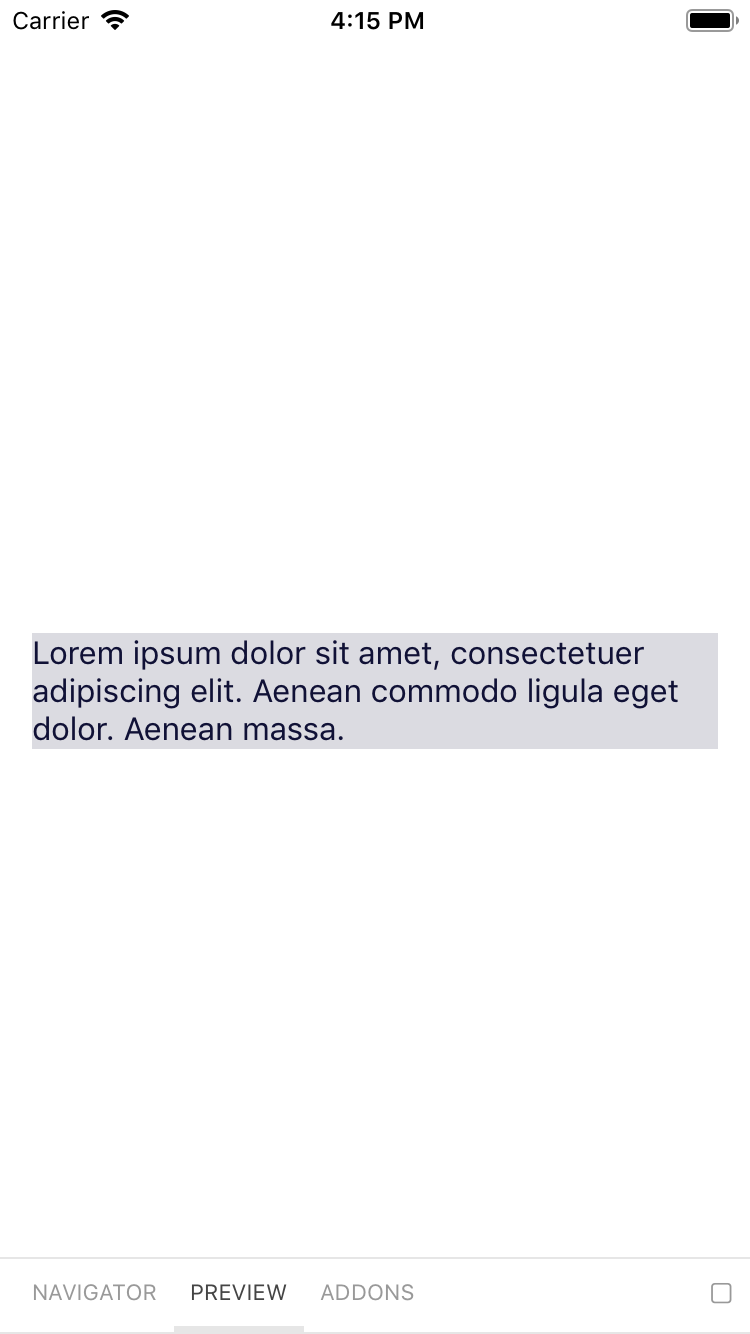
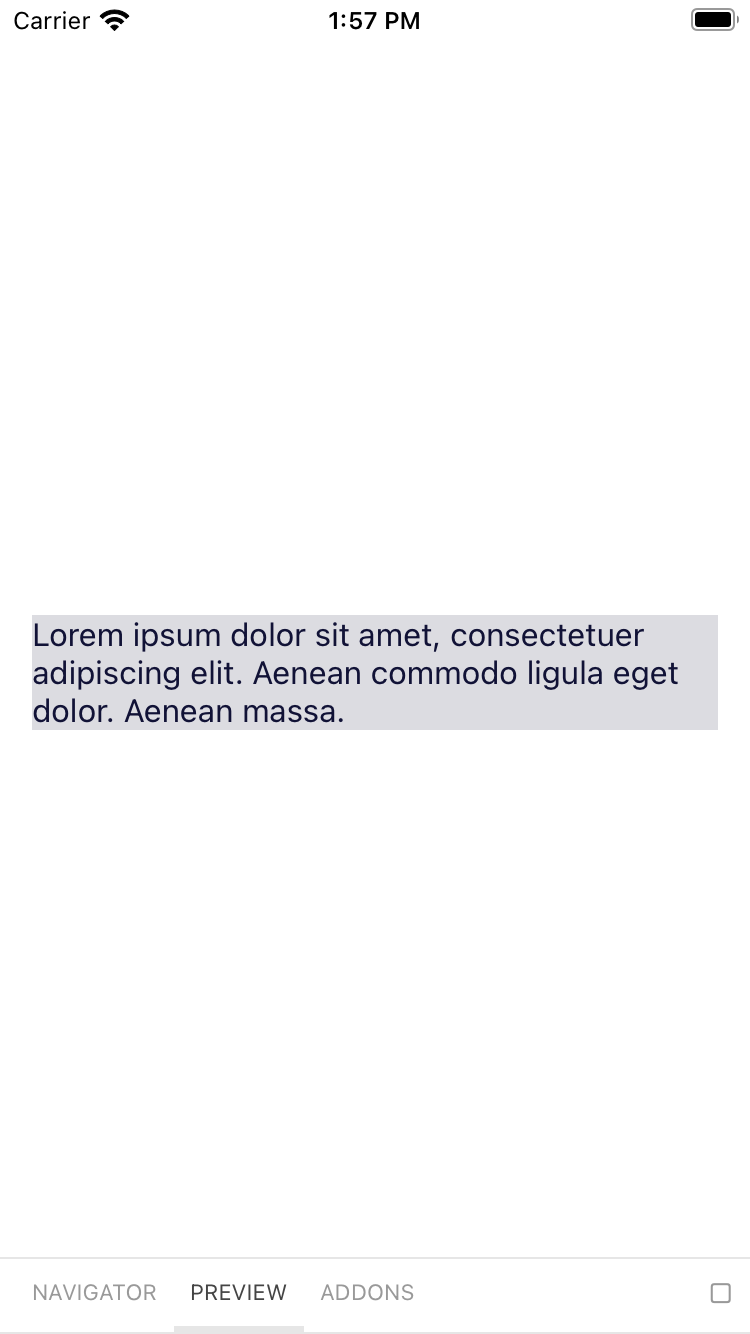
[BPK-4246]: BpkTouchableOverlay update (#657)
* [BPK-4246]: Update Touchable Overlay

* [BPK-4246]: Update Touchable Overlay

* Update UNRELEASED.md

* Fixing card overlay

diff --git a/lib/bpk-component-touchable-overlay/src/BpkTouchableOverlay.js b/lib/bpk-component-touchable-overlay/src/BpkTouchableOverlay.js
@@ -22,6 +22,8 @@ import React, { type Node, type ElementProps } from 'react';
 import PropTypes from 'prop-types';
 import {
   borderRadiusXs,
+  borderRadiusSm,
+  borderRadiusMd,
   borderRadiusLg,
   borderRadiusPill,
   // TODO: Make touchableOverlayColor a semantic colour, will require a breaking change.
@@ -49,6 +51,12 @@ const dynamicStyles = BpkDynamicStyleSheet.create({
   overlayborderRadiusXs: {
     borderRadius: borderRadiusXs,
   },
+  overlayborderRadiusSm: {
+    borderRadius: borderRadiusSm,
+  },
+  overlayborderRadiusMd: {
+    borderRadius: borderRadiusMd,
+  },
   overlayBorderRadiusLg: {
     borderRadius: borderRadiusLg,
   },
@@ -65,7 +73,7 @@ type ViewStyleProp = $PropertyType<ViewProps, 'style'>;
 
 export type Props = {
   children: Node,
-  borderRadius: ?('sm' | 'lg' | 'pill' | number),
+  borderRadius: ?('xs' | 'sm' | 'md' | 'lg' | 'pill' | number),
   style: ViewStyleProp,
   overlayStyle: ViewStyleProp,
   onPressIn: ?() => mixed,
@@ -88,8 +96,12 @@ const BpkTouchableOverlay = (props: Props) => {
 
   const overlayStyles = [styles.overlay];
   if (borderRadius) {
-    if (borderRadius === 'sm') {
+    if (borderRadius === 'xs') {
       overlayStyles.push(styles.overlayborderRadiusXs);
+    } else if (borderRadius === 'sm') {
+      overlayStyles.push(styles.overlayborderRadiusSm);
+    } else if (borderRadius === 'md') {
+      overlayStyles.push(styles.overlayborderRadiusMd);
     } else if (borderRadius === 'lg') {
       overlayStyles.push(styles.overlayBorderRadiusLg);
     } else if (borderRadius === 'pill') {

diff --git a/lib/bpk-component-touchable-overlay/stories.js b/lib/bpk-component-touchable-overlay/stories.js
@@ -65,11 +65,27 @@ storiesOf('bpk-component-touchable-overlay', module)
   ))
   .add('All borderRadius values', () => (
     <View>
+      <BpkText>With borderRadius=&#34;xs&#34;</BpkText>
+      <BpkTouchableOverlay
+        onPress={onPress}
+        accessibilityLabel="Example touchable overlay"
+        borderRadius="xs"
+      >
+        {viewContent}
+      </BpkTouchableOverlay>
       <BpkText>With borderRadius=&#34;sm&#34;</BpkText>
       <BpkTouchableOverlay
         onPress={onPress}
         accessibilityLabel="Example touchable overlay"
         borderRadius="sm"
+      >
+        {viewContent}
+      </BpkTouchableOverlay>
+      <BpkText>With borderRadius=&#34;md&#34;</BpkText>
+      <BpkTouchableOverlay
+        onPress={onPress}
+        accessibilityLabel="Example touchable overlay"
+        borderRadius="md"
       >
         {viewContent}
       </BpkTouchableOverlay>

diff --git a/lib/bpk-component-card/src/BpkCard.ios.js b/lib/bpk-component-card/src/BpkCard.ios.js
@@ -114,7 +114,9 @@ const BpkCard = (props: Props) => {
     <BpkTouchableOverlay
       accessibilityRole="button"
       style={style}
-      borderRadius={cornerStyle}
+      // We set sm to 'md' here so that the overlay corner styles selected match the card borderRadius
+      // Rather than introducing a new style which is not in the design system we are modifying the default to align correctly.
+      borderRadius={cornerStyle === CORNER_STYLES.sm ? 'md' : cornerStyle}
       {...rest}
     >
       <View style={innerStyle}>{children}</View>

diff --git a/UNRELEASED.md b/UNRELEASED.md
@@ -2,6 +2,9 @@
 
 > Place your changes below this line.
 
+**Fixed:**
+  - `BpkTouchableOverlay` - updated the `sm` value for `borderRadius` to be `8` (previously `4`).
+
 ## How to write a good changelog entry
 
 1. Add 'Breaking', 'Added' or 'Fixed' in bold depending on if the change will be major, minor or patch according to [semver](semver.org).
